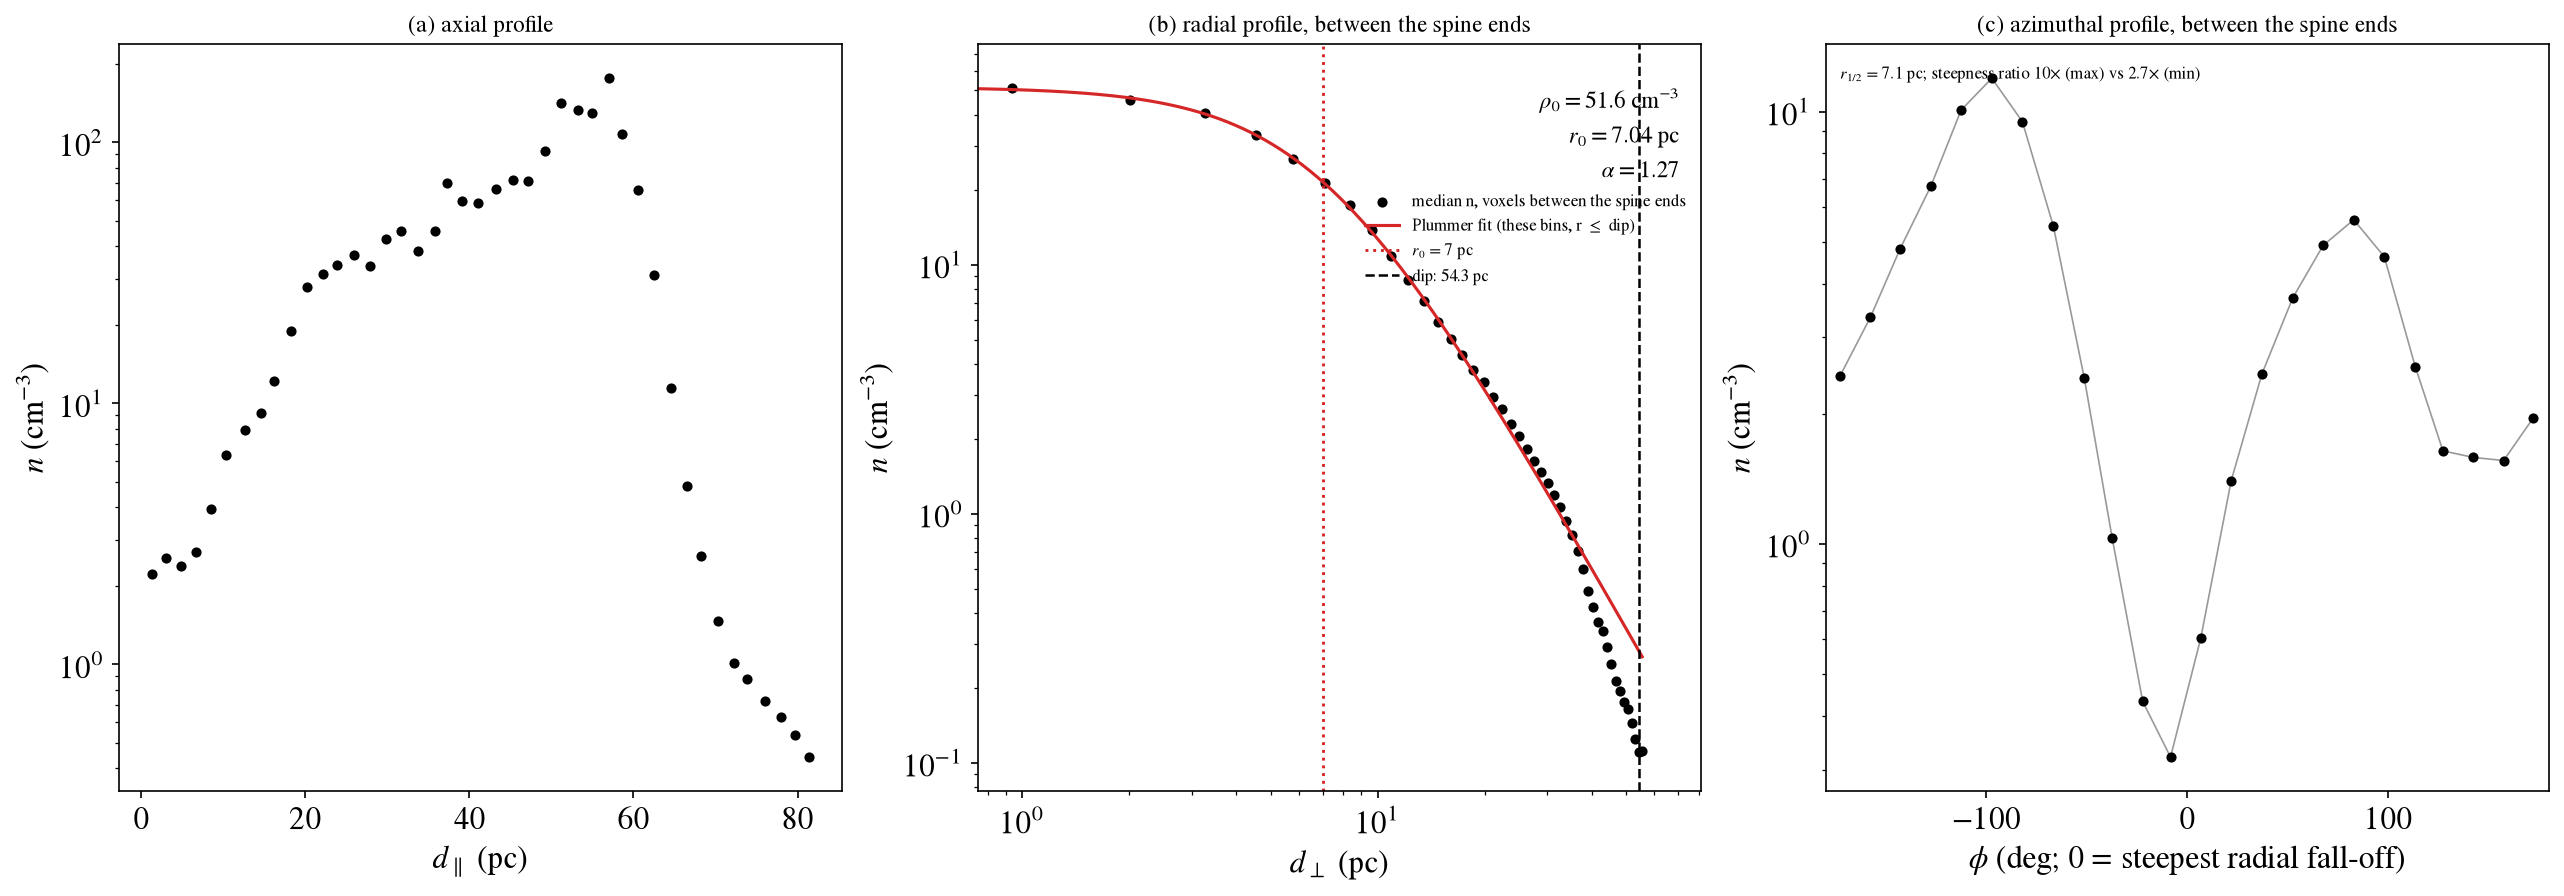
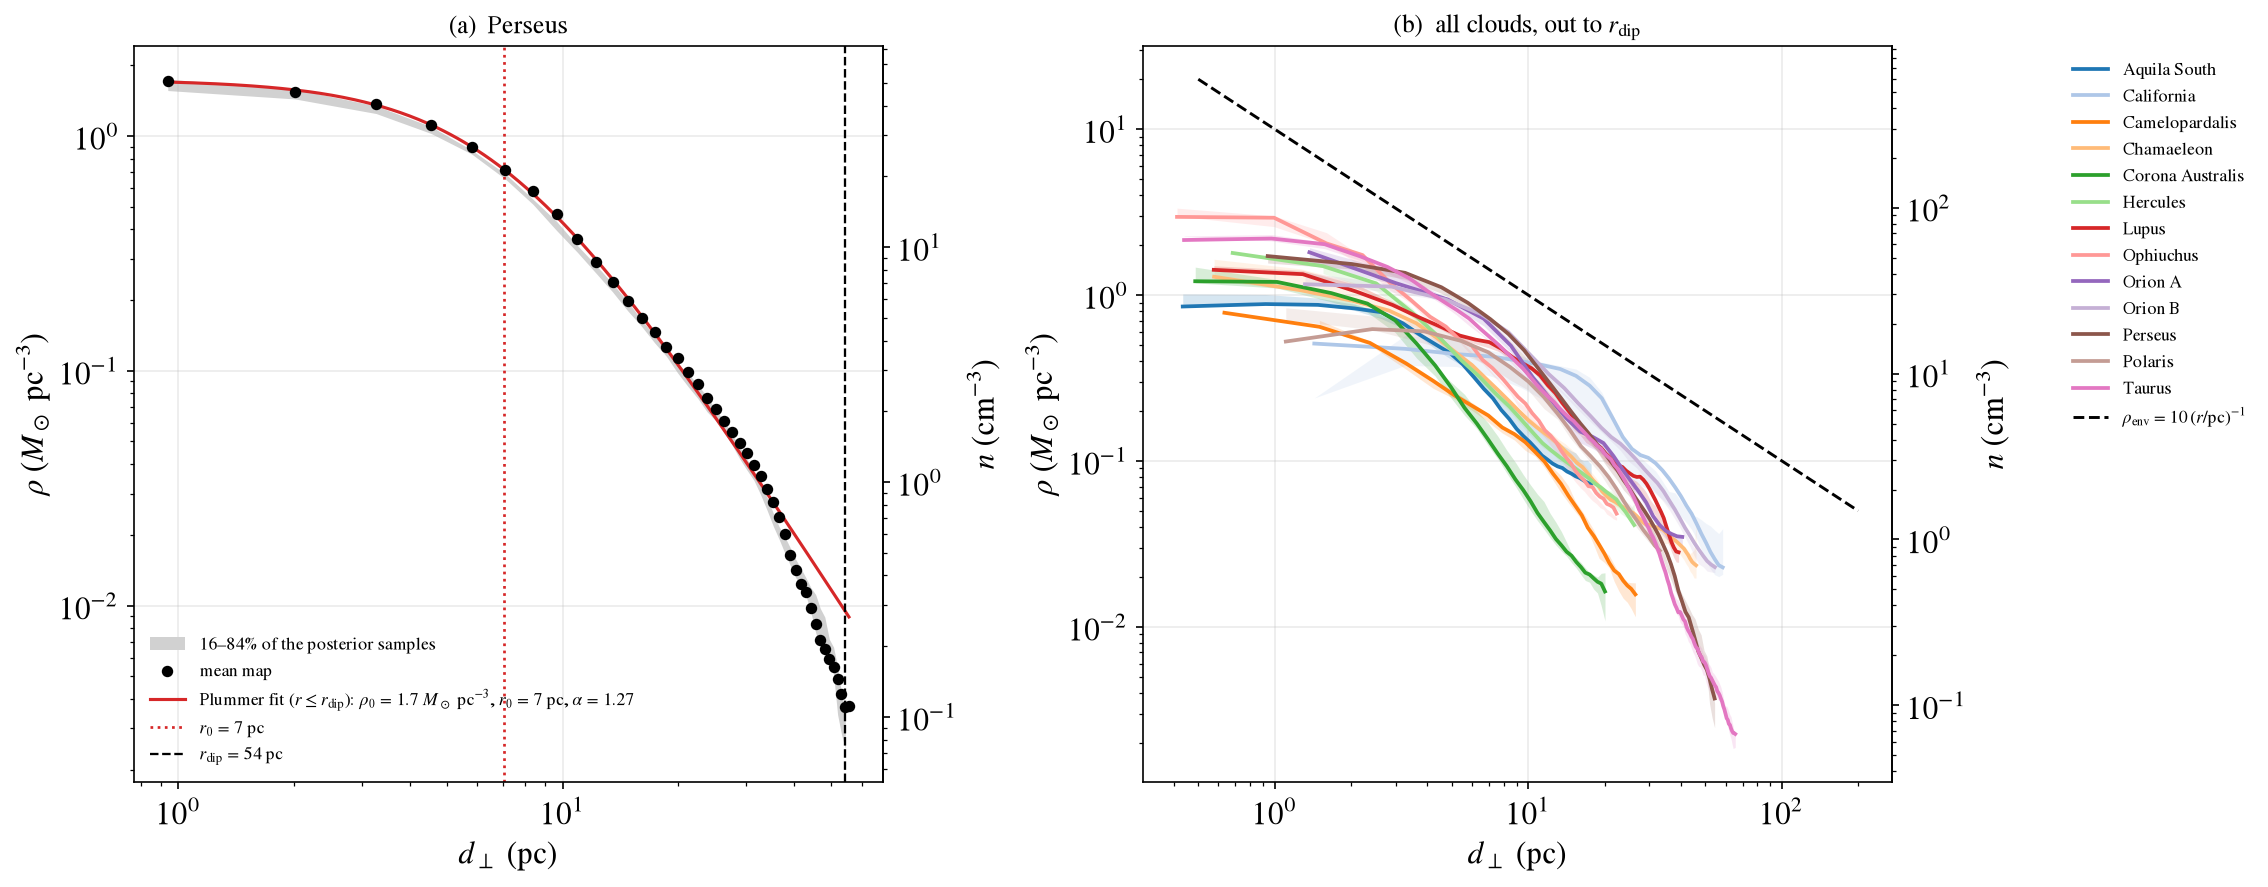
Paper figures: sky-only Fig. 1, two-panel stacked profiles (Fig. 3), figs 4/5/7 in
- main.tex: drop the "rho vs r" placeholder so figure numbers match file names;
  figs 4, 5, 7 included; profiles caption rewritten for the new panels
- fig1_catalog: the l-b panel alone (projection_sky_lb.png, new in projections)
- fig3: one cloud's d_perp profile with fit and sample spread, plus every
  cloud's profile out to r_dip with the IF23 10/r envelope
  (stacked_profiles_figure; the cylinder step now saves radial_profiles_n<N>.csv)

diff --git a/code/dust3d_lib.py b/code/dust3d_lib.py
@@ -2521,6 +2521,77 @@ def cylinder_profile(i, proxy, table1, dmask, spine, lb_pad=1.0, lb_search_pad=P
     return cd, res, cube, r_perp, r_parl, r_phi, pad
 
 
+def stacked_profiles_figure(outdir, cloud='Perseus', n_iso=N_ISO):
+    """stacked_profiles_n<N>.png, from the cylinder step's radial_profiles_n<N>.csv
+    and radial_profile_fits_n<N>.csv in `outdir`. Left: `cloud`'s d_perp profile
+    (mean map, with the 16-84% spread of the posterior samples' profiles) and its
+    Plummer fit. Right: every cloud's profile out to its r_dip, with the
+    rho_env = 10 (r/pc)^-1 Msun pc^-3 envelope of Imara & Forbes (2023, Fig. 6).
+    Densities in Msun pc^-3 (1.36 m_p per H), n in cm^-3 on the right-hand axis."""
+    outdir = _dir(outdir)
+    prof = pd.read_csv(f'{outdir}radial_profiles_n{n_iso:g}.csv')
+    fits = pd.read_csv(f'{outdir}radial_profile_fits_n{n_iso:g}.csv').set_index('cloud')
+    conv = float(rho_to_mass_density(1.0))          # Msun pc^-3 per cm^-3
+
+    def profile(c):
+        """mean-map d, n and the samples' 16th / 84th percentiles on its grid"""
+        m = prof[(prof['cloud'] == c) & (prof['sample'] == -1)].sort_values('d')
+        d, n = m['d'].to_numpy(float), m['n'].to_numpy(float)
+        S = [np.interp(d, g['d'], g['n'], left=np.nan, right=np.nan)
+             for _, g in prof[(prof['cloud'] == c) & (prof['sample'] >= 0)].groupby('sample')]
+        lo, hi = np.nanpercentile(S, [16, 84], axis=0) if len(S) > 1 else (None, None)
+        ok = (d > 0) & (n > 0)
+        return d[ok], n[ok], (lo[ok] if lo is not None else None), (hi[ok] if hi is not None else None)
+
+    fig, (a1, a2) = plt.subplots(1, 2, figsize=(15, 5.8), dpi=150, constrained_layout=True)
+
+    # (a) one cloud
+    d, n, lo, hi = profile(cloud)
+    f = fits.loc[cloud]
+    if lo is not None:
+        a1.fill_between(d, lo * conv, hi * conv, color='0.82', lw=0, zorder=1,
+                        label='16–84% of the posterior samples')
+    a1.scatter(d, n * conv, s=20, color='black', zorder=3, label='mean map')
+    rr = np.geomspace(d.min(), d.max(), 300)
+    a1.plot(rr, plummer(rr, f['rho0'], f['r0'], f['alpha']) * conv, color='tab:red', zorder=2,
+            label=rf"Plummer fit ($r \leq r_{{\rm dip}}$): $\rho_0$ = {f['rho0'] * conv:.2g} "
+                  rf"$M_\odot$ pc$^{{-3}}$, $r_0$ = {f['r0']:.2g} pc, $\alpha$ = {f['alpha']:.2f}")
+    a1.axvline(f['r0'], color='tab:red', ls=':', lw=1.3, label=rf"$r_0$ = {f['r0']:.2g} pc")
+    a1.axvline(f['r_dip'], color='black', ls='--', lw=1.1,
+               label=rf"$r_{{\rm dip}}$ = {f['r_dip']:.0f} pc")
+    a1.set_title(f'(a)  {cloud}', fontsize=12)
+    a1.legend(loc='lower left', fontsize=8.5, frameon=False)
+
+    # (b) every cloud, out to its r_dip
+    names = list(fits.index)
+    cols = plt.cm.tab20(np.linspace(0, 1, 20))[:len(names)]
+    for c, col in zip(names, cols):
+        d, n, lo, hi = profile(c)
+        keep = d <= fits.loc[c, 'r_dip']
+        if lo is not None:
+            a2.fill_between(d[keep], lo[keep] * conv, hi[keep] * conv, color=col, alpha=0.18, lw=0)
+        a2.plot(d[keep], n[keep] * conv, color=col, lw=1.8, label=c)
+    rr = np.geomspace(0.5, 200, 100)
+    a2.plot(rr, 10 / rr, color='black', ls='--', lw=1.4,
+            label=r'$\rho_{\rm env} = 10\,(r/{\rm pc})^{-1}$')
+    a2.set_title(r'(b)  all clouds, out to $r_{\rm dip}$', fontsize=12)
+    a2.legend(loc='upper left', bbox_to_anchor=(1.22, 1.0), fontsize=8.5, frameon=False)
+
+    for ax in (a1, a2):
+        ax.set_xscale('log'); ax.set_yscale('log')
+        ax.set_xlabel(r'$d_\perp$ (pc)')
+        ax.set_ylabel(r'$\rho$ ($M_\odot$ pc$^{-3}$)')
+        sec = ax.secondary_yaxis('right', functions=(lambda y: y / conv, lambda v: v * conv))
+        sec.set_ylabel(r'$n$ (cm$^{-3}$)')
+        ax.grid(True, which='major', alpha=0.25)
+    a2.set_xlim(left=min(a2.get_xlim()[0], a1.get_xlim()[0]))
+    out = f'{outdir}stacked_profiles_n{n_iso:g}.png'
+    fig.savefig(out, bbox_inches='tight')
+    plt.close(fig)
+    print('saved', out)
+    return out
+
+
 def cylinder_samples(cloud, table1, win_lo, win_hi, fits, lb_pad=1.0,
                      lb_search_pad=PAD_STORED, spine_slab=True, perp_nmin=0.0,
                      perp_fit='lin_dip'):
@@ -2528,7 +2599,7 @@ def cylinder_samples(cloud, table1, win_lo, win_hi, fits, lb_pad=1.0,
     own cube with its own spine and caps (fits['samples'], from get_spine_fits).
     A sample whose walk never reached n_iso (zero-length spine) is skipped.
     Returns one dict per sample: sample, rho0, r0, alpha, r_dip, dip_flag,
-    M_cyl, pad, slab_thin."""
+    M_cyl, pad, slab_thin, and profile (the d_perp profile, a d / rho frame)."""
     i = list(table1['Name']).index(cloud)
     dmask = (ds >= win_lo) & (ds <= win_hi)
     scubes, indep, (sx, sy) = build_sample_cubes(table1, cloud, pad=lb_search_pad)
@@ -2546,7 +2617,8 @@ def cylinder_samples(cloud, table1, win_lo, win_hi, fits, lb_pad=1.0,
         rho0_, r0_, al_ = res['fit']
         out.append({'sample': int(fits['indep'][k]), 'rho0': rho0_, 'r0': abs(r0_),
                     'alpha': al_, 'r_dip': res['r_dip'], 'dip_flag': res['dip_flag'],
-                    'M_cyl': res['M_cyl'], 'pad': pad, 'slab_thin': res['slab_thin']})
+                    'M_cyl': res['M_cyl'], 'pad': pad, 'slab_thin': res['slab_thin'],
+                    'profile': res['df_lin'][['d', 'rho']].copy()})
     return out
 
 
@@ -4545,7 +4617,9 @@ def cylinder_figures(table1, win_csv, outdir, clouds=None, n_iso=N_ISO, n_seeds=
     the sample's own spine and caps (cylinder_samples), adding <col>_sd and
     <col>_smean (spread and mean over the samples) for rho0, r0, alpha, r_dip and
     M_cyl, and writing every sample's values to
-    <outdir>/radial_profile_fits_samples_n<N>.csv.
+    <outdir>/radial_profile_fits_samples_n<N>.csv. Every d_perp profile (mean map:
+    sample -1, and each sample) goes to <outdir>/radial_profiles_n<N>.csv
+    (cloud, sample, d in pc, n in cm^-3), for stacked_profiles_figure.
     """
     outdir = _dir(outdir)
     spine_cache = spine_cache or outdir + '_spine_fits'
@@ -4554,7 +4628,7 @@ def cylinder_figures(table1, win_csv, outdir, clouds=None, n_iso=N_ISO, n_seeds=
         allp, indep_p = build_sample_profiles(table1)
         names = list(table1['Name'])
     win = pd.read_csv(win_csv).set_index('cloud')
-    rows, sample_rows = [], []
+    rows, sample_rows, prof_rows = [], [], []
     for cloud in (clouds or list(table1['Name'])):
         print(f'== {cloud}')
         row = win.loc[cloud]
@@ -4580,6 +4654,8 @@ def cylinder_figures(table1, win_csv, outdir, clouds=None, n_iso=N_ISO, n_seeds=
         rd, nd, fl = dips['profile']
         res = out[1]
         rho0_, r0_, al_ = res['fit']
+        prof_rows.append(res['df_lin'][['d', 'rho']].rename(columns={'rho': 'n'})
+                         .assign(cloud=cloud, sample=-1))
         rec = {'cloud': cloud, 'slab': perp_slab, 'perp_nmin': perp_nmin,
                'perp_fit': perp_fit,
                'rho0': rho0_, 'r0': abs(r0_), 'alpha': al_,
@@ -4594,6 +4670,9 @@ def cylinder_figures(table1, win_csv, outdir, clouds=None, n_iso=N_ISO, n_seeds=
             smp = cylinder_samples(cloud, table1, lo, hi, fits_, lb_pad, lb_search_pad,
                                    spine_slab=(perp_slab == 'spine'), perp_nmin=perp_nmin,
                                    perp_fit=perp_fit)
+            for s_ in smp:
+                prof_rows.append(s_.pop('profile').rename(columns={'rho': 'n'})
+                                 .assign(cloud=cloud, sample=s_['sample']))
             sdf = pd.DataFrame(smp)
             sdf.insert(0, 'cloud', cloud)
             sample_rows.append(sdf)
@@ -4624,6 +4703,14 @@ def cylinder_figures(table1, win_csv, outdir, clouds=None, n_iso=N_ISO, n_seeds=
             new = pd.concat([old[~old['cloud'].isin(new['cloud'])], new], ignore_index=True)
         new.to_csv(spath, index=False)
         print(f'wrote {spath}')
+    if prof_rows:
+        ppath = f'{outdir}radial_profiles_n{n_iso:g}.csv'
+        new = pd.concat(prof_rows, ignore_index=True)[['cloud', 'sample', 'd', 'n']]
+        if os.path.exists(ppath):
+            old = pd.read_csv(ppath)
+            new = pd.concat([old[~old['cloud'].isin(new['cloud'])], new], ignore_index=True)
+        new.to_csv(ppath, index=False)
+        print(f'wrote {ppath}')
     return path
 
 
@@ -4987,6 +5074,21 @@ def projection_panels_figure(csv, fits_dir, outdir, n_iso=N_ISO, sky_cache=None,
     ax_lb.legend(handles=_map_legend(n_iso), loc='lower left', fontsize=7.5, framealpha=0.9,
                  facecolor='white', edgecolor='0.45')
     out = outdir + 'projection_panels_xy_lb_bd.png'
+    fig.savefig(out, dpi=200, bbox_inches='tight', facecolor='white')
+    plt.close(fig)
+    print('saved', out)
+
+    # the l-b panel on its own, with its own colour bar (the paper's sample map)
+    fig = plt.figure(figsize=(15, 7.6))
+    gs = GridSpec(1, 2, figure=fig, width_ratios=[1, 0.025], wspace=0.04)
+    ax_lb, cax = fig.add_subplot(gs[0, 0]), fig.add_subplot(gs[0, 1])
+    im = draw_maps(fig, S, norm, ax_lb=ax_lb)
+    ax_lb.set_title(r'$\ell$–$b$,  integrated along $d$,  $d\leq$%d pc' % DMAX, fontsize=11, pad=8)
+    cb = fig.colorbar(im, cax=cax)
+    cb.set_label('A$_V$  [mag]', labelpad=8, fontsize=10)
+    ax_lb.legend(handles=_map_legend(n_iso), loc='lower left', fontsize=7.5, framealpha=0.9,
+                 facecolor='white', edgecolor='0.45')
+    out = outdir + 'projection_sky_lb.png'
     fig.savefig(out, dpi=200, bbox_inches='tight', facecolor='white')
     plt.close(fig)
     print('saved', out)

diff --git a/code/dust3d_pipeline.py b/code/dust3d_pipeline.py
@@ -9,7 +9,8 @@ Steps, in the order they run (each reads what the earlier ones wrote):
   fits         distance windows, spine angles and per-sample Plummer fits
                -> spine_angles_and_fits_samples_n<N>.csv (+ projmaps figures)
   cylinder     40-seed spines (cached in _spine_fits/), cylinder profiles and fits
-               -> <cloud>_cylinder_three_row_n<N>.png, radial_profile_fits_n<N>.csv
+               -> <cloud>_cylinder_three_row_n<N>.png, radial_profile_fits_n<N>.csv,
+                  radial_profiles_n<N>.csv, stacked_profiles_n<N>.png
   windows      -> <cloud>_sample_spine_windows.png
   inputs       rho0/r0/alpha/r_dip + inclination + A_V-contour masses
                -> rho0_inputs_n<N>_linfit.csv
@@ -19,7 +20,8 @@ Steps, in the order they run (each reads what the earlier ones wrote):
   if23         -> if23_fig7_ours.png
   inclinations -> spine_inclination_panels_n<N>.png, spine_inclinations[_scatter].png
   projections  -> edenhofer_sky_projections_inclination.png,
-                  edenhofer_xyz_topdown_mom0_inclination.png, projection_panels_xy_lb_bd.png
+                  edenhofer_xyz_topdown_mom0_inclination.png, projection_panels_xy_lb_bd.png,
+                  projection_sky_lb.png
   ysos         -> sky_lb_ysos_n<N>.png
   paper        copy the paper's figures into github_repo/figures/ under the names
                main.tex uses, each from the newest run that has it (PAPER_FIGURES
@@ -59,12 +61,12 @@ PIPELINE = ['fits', 'cylinder', 'windows', 'inputs', 'rho0', 'if23', 'inclinatio
 # the n_iso; single-cloud figures use PAPER_CLOUD.
 PAPER_CLOUD = 'Perseus'
 PAPER_FIGURES = [
-    ('fig1_catalog.png', 'projection_panels_xy_lb_bd.png', 'projections',
-     'Cloud Sample: the clouds face-on, on the sky and in b-d'),
+    ('fig1_catalog.png', 'projection_sky_lb.png', 'projections',
+     'Cloud Sample: the clouds on the sky (l-b)'),
     ('fig2.png', '{cloud}_cylinder_three_row_n{n}_maps.png', 'cylinder',
      'Methods: l-b / l-d / b-d maps with the fitted spines'),
-    ('fig3.png', '{cloud}_cylinder_three_row_n{n}_profiles.png', 'cylinder',
-     'Methods (fig:profiles): profiles along, across and around the spine'),
+    ('fig3.png', 'stacked_profiles_n{n}.png', 'cylinder',
+     'Methods (fig:profiles): one cloud d_perp profile, then every cloud stacked'),
     ('fig4.png', 'rho0_correlations_n{n}_linfit_cosi_Mcyl_r0_alpha.png', 'rho0',
      'Results (fig:params): rho0/cos i vs r0 and alpha, ours and IF23'),
     ('fig5.png', 'rho0_correlations_n{n}_linfit_cosi_Mcyl_M.png', 'rho0',
@@ -165,6 +167,7 @@ def main():
     if 'cylinder' in steps:
         L.cylinder_figures(table1, win_csv, out, clouds=args.clouds, n_iso=n,
                            refit=args.refit, spine_cache=spines)
+        L.stacked_profiles_figure(out, cloud=PAPER_CLOUD, n_iso=n)
 
     if 'windows' in steps:
         L.spine_window_figures(table1, win_csv, out, clouds=args.clouds, n_iso=n,

diff --git a/main.tex b/main.tex
@@ -182,13 +182,6 @@ wang, edenhofer ena dharwardenan (are these the top three resolutions?) in sligh
 \subsection{defining the three-dimensional cloud boundary}
 
 
-\begin{figure}[ht!]
-\centering
-\figplaceholder{fig2}
-\caption{rho vs r profiles}
-\label{fig:maps}
-\end{figure}
-
 \begin{figure*}[ht!]
 \centering
 \includegraphics[width=\linewidth]{figures/fig2.png}
@@ -200,13 +193,13 @@ wang, edenhofer ena dharwardenan (are these the top three resolutions?) in sligh
 \begin{figure*}[ht!]
 \centering
 \includegraphics[width=\linewidth]{figures/fig3.png}
-\caption{volume density profile along the spine (left) and as a function of perpendicular distance from the spine (right)}
+\caption{Volume density as a function of perpendicular distance from the spine. Left: Perseus, with its Plummer fit; the shaded band is the 16--84\% range of the posterior samples' profiles. Right: every cloud's profile out to its $r_{\mathrm{dip}}$, with the $\rho_{\mathrm{env}} = 10\,(r/\mathrm{pc})^{-1}\,M_\odot\,\mathrm{pc}^{-3}$ envelope of \citet{ImaraForbes_2023}.}
 \label{fig:profiles}
 \end{figure*}
 
 \begin{figure}[ht!]
 \centering
-\figplaceholder{fig4}
+\includegraphics[width=\linewidth]{figures/fig4.png}
 \caption{Results of fitting the explicit cylinder model. Each cloud's median
 posterior values of $\rho_0$, $r_0$, and $\alpha$ are plotted, with error bars
 showing the central 68\% of the marginal distribution of each parameter. Clouds
@@ -218,7 +211,7 @@ $r_0$), but all clouds have $\alpha$ between about 0.5 and 1.}
 
 \begin{figure}[ht!]
 \centering
-\figplaceholder{fig5}
+\includegraphics[width=\linewidth]{figures/fig5.png}
 \caption{The central density of each cloud relative to its mass and depletion
 time. Clouds with higher central densities tend to have lower masses and shorter
 depletion times.}
@@ -239,7 +232,7 @@ $\rho_{\mathrm{env}} = 10\,(r/\mathrm{pc})^{-1}\,\Msun\,\mathrm{pc}^{-3}$.}
 
 \begin{figure}[ht!]
 \centering
-\figplaceholder{fig7}
+\includegraphics[width=\linewidth]{figures/fig7.png}
 \caption{The scaling of cloud mass (left panel) and $\ell_{\parallel,\mathrm{max}}$
 and $\bperp{}_{,\mathrm{max}}$ (right panel) with $r_0$. In the right panel, the
 $\bperp{}_{,\mathrm{max}}$ have smaller values and the markers are not filled. Both
